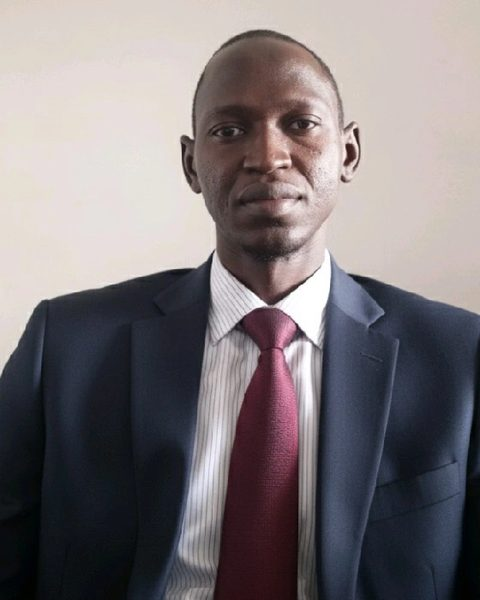
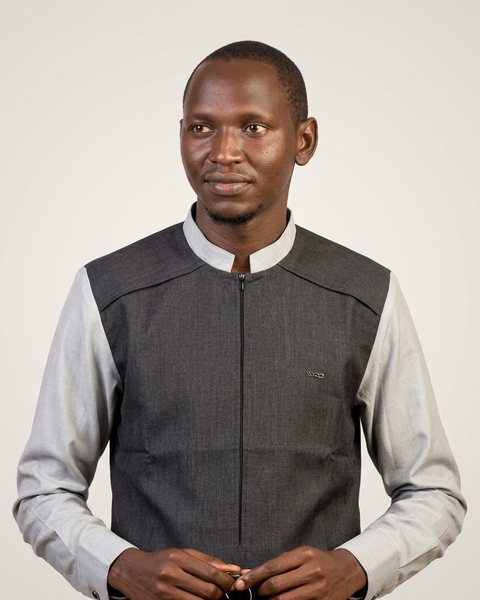
Mise à jour des expériences

diff --git a/index.html b/index.html
@@ -642,7 +642,7 @@ input,textarea{width:100%;min-width:0;box-sizing:border-box}
           <picture>
             <source srcset="assets/daouda-boye.avif" type="image/avif">
             <source srcset="assets/daouda-boye.webp" type="image/webp">
-            <img src="assets/daouda-boye.jpg" width="480" height="600" fetchpriority="high" alt="Portrait de Daouda Boye en costume bleu marine et cravate bordeaux">
+            <img src="assets/daouda-boye.jpg" width="480" height="600" fetchpriority="high" alt="Portrait de Daouda Boye en tenue grise à col mao">
           </picture>
           <figcaption>Dakar, Sénégal</figcaption>
         </figure>
